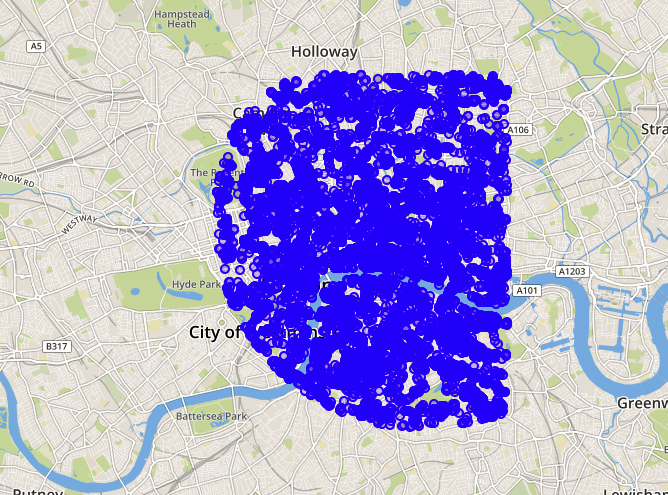
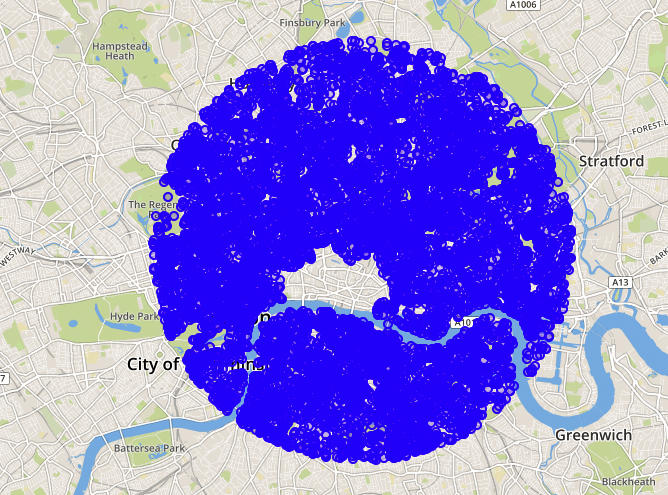
Exchanging screenshot

diff --git a/exercises/ex3/README.md b/exercises/ex3/README.md
@@ -103,8 +103,6 @@ We can confirm that we properly selected the nodes by visualizing the result set
 SELECT SHAPE FROM LONDON_VERTICES WHERE IN_SCOPE = 1
 ```
 
-In the North and East we see a rectangular shape, which is originated in the fact, that the bounding box for our node data is smaller than the circle, that we have identified for transportation.
-
 ![](images/relevant_nodes.png)
 
 ## Summary
